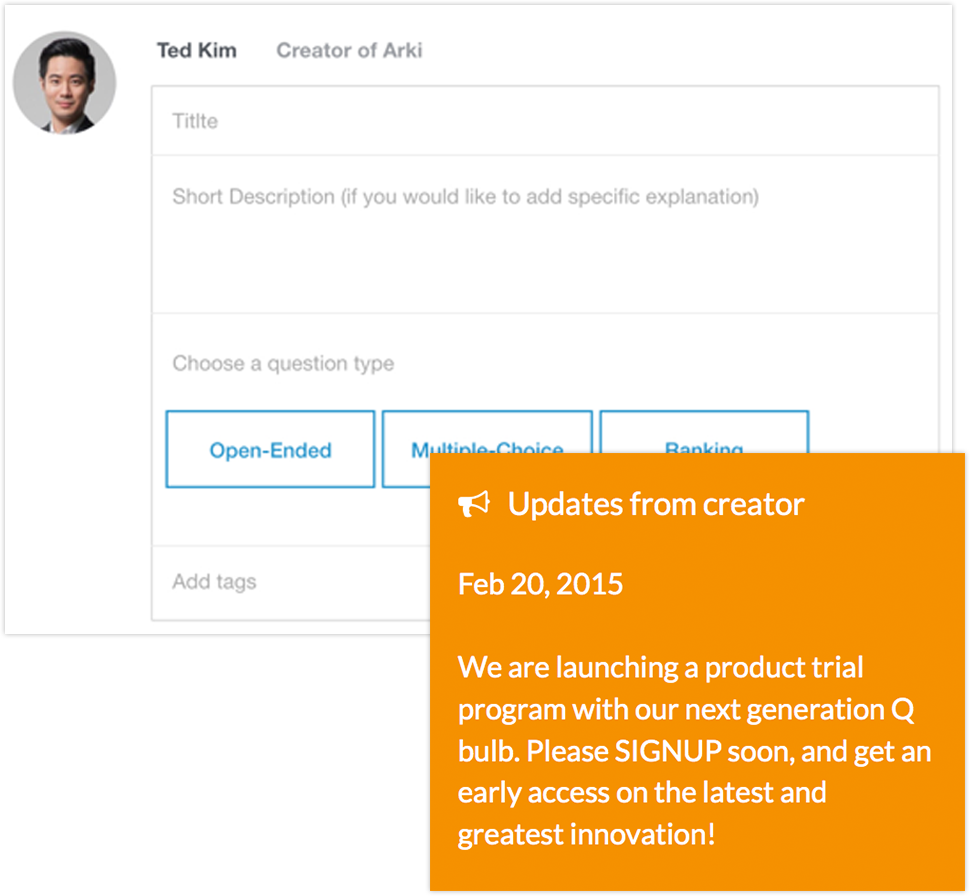
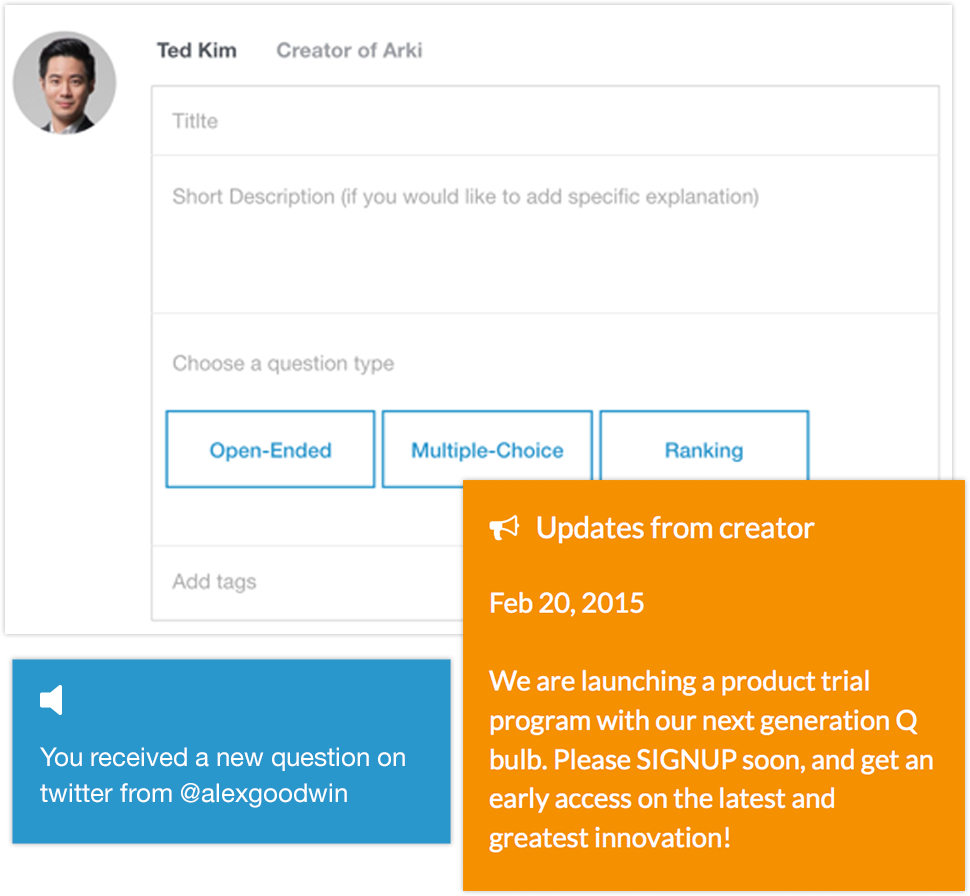
Content update on Creator page

Changed region(s): [[0.0, 0.5, 1.0, 1.0]]

diff --git a/app/views/creator.scala.html b/app/views/creator.scala.html
@@ -38,12 +38,12 @@
             <p class="how-it-works--title">Tell your story</p>
         </div>
         <div class="row how-it-works--main">
-            <div class="col-md-6 how-it-works--content">
+            <div class="col-sm-6 how-it-works--content">
                 <img src="@routes.Assets.at("images/creator/story-1.png")" class="img-responsive">
                 <p>Craft your personal story to reflect the passion and purpose behind your product creation.</p>
             </div>
-            <div class="col-md-6 how-it-works--content">
-                <img src="@routes.Assets.at("images/creator/story-2.png")" class="img-responsive">
+            <div class="col-sm-6 how-it-works--content">
+                <img src="@routes.Assets.at("images/creator/story-2.jpg")" class="img-responsive">
                 <p>Infuse social media feeds and customer testimonials to make your product page look attractive and community friendly.</p>
             </div>
         </div>
@@ -57,17 +57,17 @@
             <p class="how-it-works--title">Collaborate, build genuine buzz</p>
         </div>
         <div class="row how-it-works--main">
-            <div class="col-md-4 how-it-works--content">
+            <div class="col-sm-4 how-it-works--content">
                 <img src="@routes.Assets.at("images/creator/collaborate-1.png")" class="img-responsive">
-                <p>Create synergistic collaborations with early adopters and social influencers by inviting their genuine feedback and ideas. Leverage the power of their networks to amplify your reach.</p>
+                <p>Create synergistic collaborations with early adopters and social influencers by inviting their genuine feedback and ideas. Leverage the power of their networks to spread the word.</p>
             </div>
-            <div class="col-md-4 how-it-works--content">
-                <img src="@routes.Assets.at("images/creator/collaborate-3.png")" class="img-responsive">
+            <div class="col-sm-4 how-it-works--content">
+                <img src="@routes.Assets.at("images/creator/collaborate-3.jpg")" class="img-responsive">
                 <p>Invite early adopters to share personal photos, videos and ideas about your product. Tap into their expertise to influence those who are on the edge of your customer base.</p>
             </div>
-            <div class="col-md-4 how-it-works--content">
+            <div class="col-sm-4 how-it-works--content">
                 <img src="@routes.Assets.at("images/creator/collaborate-2.png")" class="img-responsive">
-                <p>Conduct short surveys, share updates and field user questions. Notifications and third-party integration keep you responsive to valuable customers.</p>
+                <p>Conduct short surveys, share updates and field user questions. Notifications and third-party app integration keep you responsive to the valuable customers.</p>
             </div>
         </div>
     </div>
@@ -80,13 +80,36 @@
             <p class="how-it-works--title">Growth hacking</p>
         </div>
         <div class="row how-it-works--main">
-            <div class="col-md-6 how-it-works--content">
+            <div class="col-sm-6 how-it-works--content">
                 <img src="@routes.Assets.at("images/creator/analytics-1.png")" class="img-responsive">
                 <p>Receive an analytical snap shot of customers’ hot topics: how customers use your product, what features they find useful and what needs improvement.</p>
             </div>
-            <div class="col-md-6 how-it-works--content">
-                <img src="@routes.Assets.at("images/creator/analytics-2.png")" class="img-responsive">
+            <div class="col-sm-6 how-it-works--content">
+                <img src="@routes.Assets.at("images/creator/analytics-2.jpg")" class="img-responsive">
                 <p>Track your follower activities, demographics and social impact. We provide you with easy-to-digest information to help boost your SEO, conversion metrics and net promoter scores.</p>
+            </div>
+        </div>
+    </div>
+
+    <!-- blurb 4 -->
+    <div class="row how-it-works--blurb future">
+        <div class="col-sm-12 text-center">
+            <hr class="how-it-works--title-separator future">
+            <p class="how-it-works--title-seq future">4</p>
+            <p class="how-it-works--title future">And, more exciting stuff to come...</p>
+        </div>
+        <div class="row how-it-works--main">
+            <div class="col-sm-4 how-it-works--content future">
+                <img class="img-responsive" src="@routes.Assets.at("images/creator/more-1.png")">
+                <p>Deeply engage the community through signature activities – product trials, podcasts, rewarding champions, contests and launch events.</p>
+            </div>
+            <div class="col-sm-4 how-it-works--content future">
+                <img class="img-responsive" src="@routes.Assets.at("images/creator/more-2.png")">
+                <p>We team you up with social influencers who are experts in your area. Combine your social media campaigns with the power of their network to amplify your reach.</p>
+            </div>
+            <div class="col-sm-4 how-it-works--content future">
+                <img class="img-responsive" src="@routes.Assets.at("images/creator/more-3.png")">
+                <p>And, of course, we will link with all those social networks so you don’t miss a beat.</p>
             </div>
         </div>
     </div>

diff --git a/app/assets/stylesheets/creator.less b/app/assets/stylesheets/creator.less
@@ -264,7 +264,7 @@
 }
 
 .how-it-works--header {
-  padding: 10px 10px 30px;
+  padding: 30px 10px 30px;
   margin: 0px;
   font-size: 36pt;
   font-weight: 300;
@@ -278,7 +278,11 @@
 
 .how-it-works--blurb.story,
 .how-it-works--blurb.analytics {
-  max-width: 1000px;
+  max-width: 1024px;
+}
+
+.how-it-works--blurb.future {
+  max-width: 1100px;
 }
 
 .how-it-works--blurb.collaborate {
@@ -288,8 +292,12 @@
 .how-it-works--title {
   font-size: 18pt;
   font-weight: 400;
-  color: @main-text-2;
+  color: @sproutup-blue;
   padding: 10px;
+}
+
+.how-it-works--title.future {
+  color: @sproutup-blue-muted;
 }
 
 .how-it-works--title-seq {
@@ -299,16 +307,24 @@
   margin-top: -58px;
   margin-left: auto;
   margin-right: auto;
-  font-size: 28pt;
+  font-size: 30pt;
   font-weight: 300;
   padding-top: 6px;
   color: white;
-  background-color: @form-border;
+  background-color: @sproutup-blue;
+}
+
+.how-it-works--title-seq.future {
+  background-color: @sproutup-blue-muted;
 }
 
 .how-it-works--title-separator {
-  border-top: dashed 1px @sproutup-grey;
+  border-top: dashed 1px @sproutup-blue;
   padding: 0px 10px;
+}
+
+.how-it-works--title-separator.future {
+  border-top: dashed 1px @sproutup-blue-muted;
 }
 
 .how-it-works--main {
@@ -335,7 +351,13 @@
 
 .how-it-works--content img {
   width: auto;
-  max-height: 330px;
+  max-height: 340px;
+  margin: 0px auto;
+}
+
+.how-it-works--content.future img {
+  width: auto;
+  max-height: 200px;
   margin: 0px auto;
 }
 
